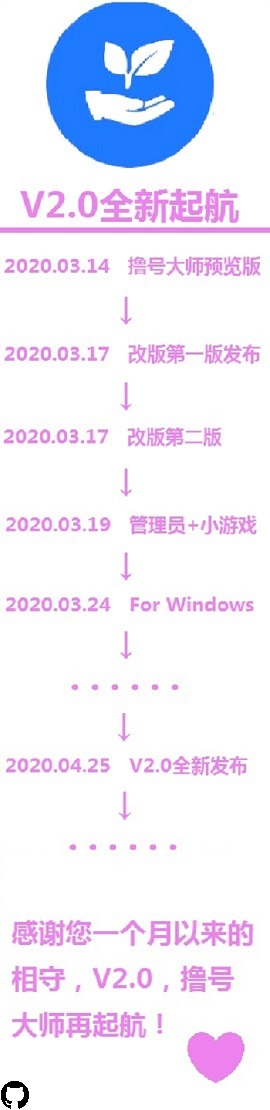
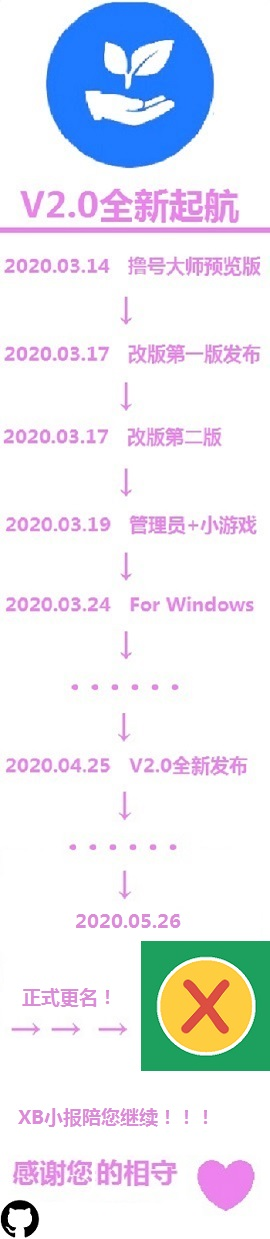
全面改名为XB小报

diff --git a/gonggao.html b/gonggao.html
@@ -1,15 +1,20 @@
 <!DOCTYPE html>
 <html>
 	<head>
-	<title>撸号大师 - 公告区</title>
+	<title>XB小报 - 公告区</title>
     <link rel="stylesheet" type="text/css" href="style.css" />
     </head>
     <body>
     <div style="text-align:center;font-size:60px;font-weight:900">
     公告
-    <hr />
+            <hr />
     <div style="text-align:center;font-size:30px;font-weight:200">
 最新的公告<br><div style="text-align:center;font-size:20px;font-weight:100">
+即日起，撸号大师正式更名为XB小报，全部服务转移至XB小报（包名com.XB.app）进行。一切服务均不受影响。
+<div style="text-align:right;font-size:20px;font-weight:1">XB团队<br>2020.05.26
+        <hr />
+    <div style="text-align:center;font-size:30px;font-weight:200">
+切换服务器<br><div style="text-align:center;font-size:20px;font-weight:100">
 现在起，在撸号大师设置中设置服务器提供商可以切换服务器！各服务器优缺点：<br>1.gitee服务器的速度较快，但ZH需进行维护<br>2.github服务器的速度一般，但无需维护
 <div style="text-align:right;font-size:20px;font-weight:1">XB团队<br>2020.05.24
     <hr />

diff --git a/ziyuan.html b/ziyuan.html
@@ -1,7 +1,7 @@
 <!DOCTYPE html>
 <html>
 	<head>
-	<title>撸号大师 - 资源下载中心</title>
+	<title>XB小报 - 资源下载中心</title>
 	  <meta name="content-type" content="text/html; charset=utf-8">
     <meta http-equlv="Content-Type" content="text/html;charset=utf-8">
     <link rel="stylesheet" type="text/css" href="style.css" />

diff --git a/index.html b/index.html
@@ -1,7 +1,7 @@
 <!DOCTYPE html>
 <html>
 	<head>
-	<title>撸号大师 - 联网检查更新</title>
+	<title>XB小报 - 联网检查更新</title>
     <link rel="stylesheet" type="text/css" href="style.css" />
         <link rel="stylesheet" type="text/css" href="notie.css">
     </head>
